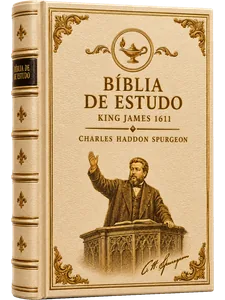
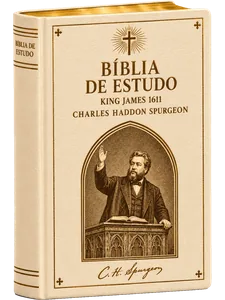
Versão 1.22.2: capas próprias para Bíblia e devocionais
As capas passam a formar três famílias, todas com a mesma gravura de
Spurgeon no púlpito como marca: a Bíblia de Estudo em couro liso com
corte dourado, cruz no alto e Spurgeon num arco gótico (a clara e a
escura com o mesmo desenho); os devocionais em meia-encadernação de
couro e linho, título numa cartela e Spurgeon num oval sob o céu do
livro (sol e lua em Manhã e Noite, estrelas em Promessas); e os livros
da Biblioteca no modelo que já tinham. O título tem pelo menos 5,8:1 de
contraste com o couro. DESIGN.md e README descrevem as três famílias.

diff --git a/DESIGN.md b/DESIGN.md
@@ -488,7 +488,16 @@ do metal nos estados certos.
   (`abertura_de_livro.dart`) em cantos quase retos (3px). O devocional tem capa
   própria — Manhã e Noite ou Promessas de Deus —, à esquerda do título, com
   cantos de 4px, e as obras da Biblioteca (22 capas) usam a mesma moldura
-  (`capa_de_obra.dart`). As capas são a peça de ilustração do sistema; as outras
+  (`capa_de_obra.dart`). Os renders formam três famílias, todas em dourado
+  sobre o couro e com a mesma gravura de Spurgeon no púlpito, a marca da casa:
+  a Bíblia de Estudo em couro liso, cantos arredondados e corte dourado, com
+  uma cruz no alto e Spurgeon num arco gótico (a clara e a escura têm o mesmo
+  desenho); os devocionais em meia-encadernação de couro e linho, com o título
+  numa cartela e Spurgeon num oval sob o céu do livro (sol e lua em Manhã e
+  Noite, estrelas em Promessas); os livros em couro granulado com nervuras,
+  medalhão com o símbolo da obra e Spurgeon sem moldura. O título tem pelo
+  menos 4,5:1 de contraste com o couro. As capas são a peça de ilustração do
+  sistema; as outras
   imagens do app são os retratos de Spurgeon e do Felipe (no anel do metal, nas
   conversas e no botão de voz), a assinatura de Spurgeon e os ícones dos canais
   em Sobre. Nada de ilustração decorativa.

diff --git a/README.md b/README.md
@@ -420,8 +420,9 @@ para um livro volta para a estante.
   o livro de novo, que então começa do primeiro capítulo.
 - **Asset**: `assets/livros/<slug>.json`, `{slug, capitulos: [{titulo,
   paragrafos: []}]}`. Carregado sob demanda, um livro por vez.
-- **Capa**: `assets/imagens/capa_<slug>.webp`, 225x300, na linha das capas
-  de Manhã e Noite e Promessas. Sem o arquivo, aparece uma capa tipográfica.
+- **Capa**: `assets/imagens/capa_<slug>.webp`, 225x300, na família das capas
+  de livro descrita em `DESIGN.md` (couro granulado, medalhão com o símbolo da
+  obra, Spurgeon no púlpito). Sem o arquivo, aparece uma capa tipográfica.
   `python tools/capa_para_webp.py <png> <slug>` tira o fundo branco do render e
   grava o WebP.
 - **O que o usuário guarda** (`lib/dados/leitura_de_livros.dart`, dentro do
